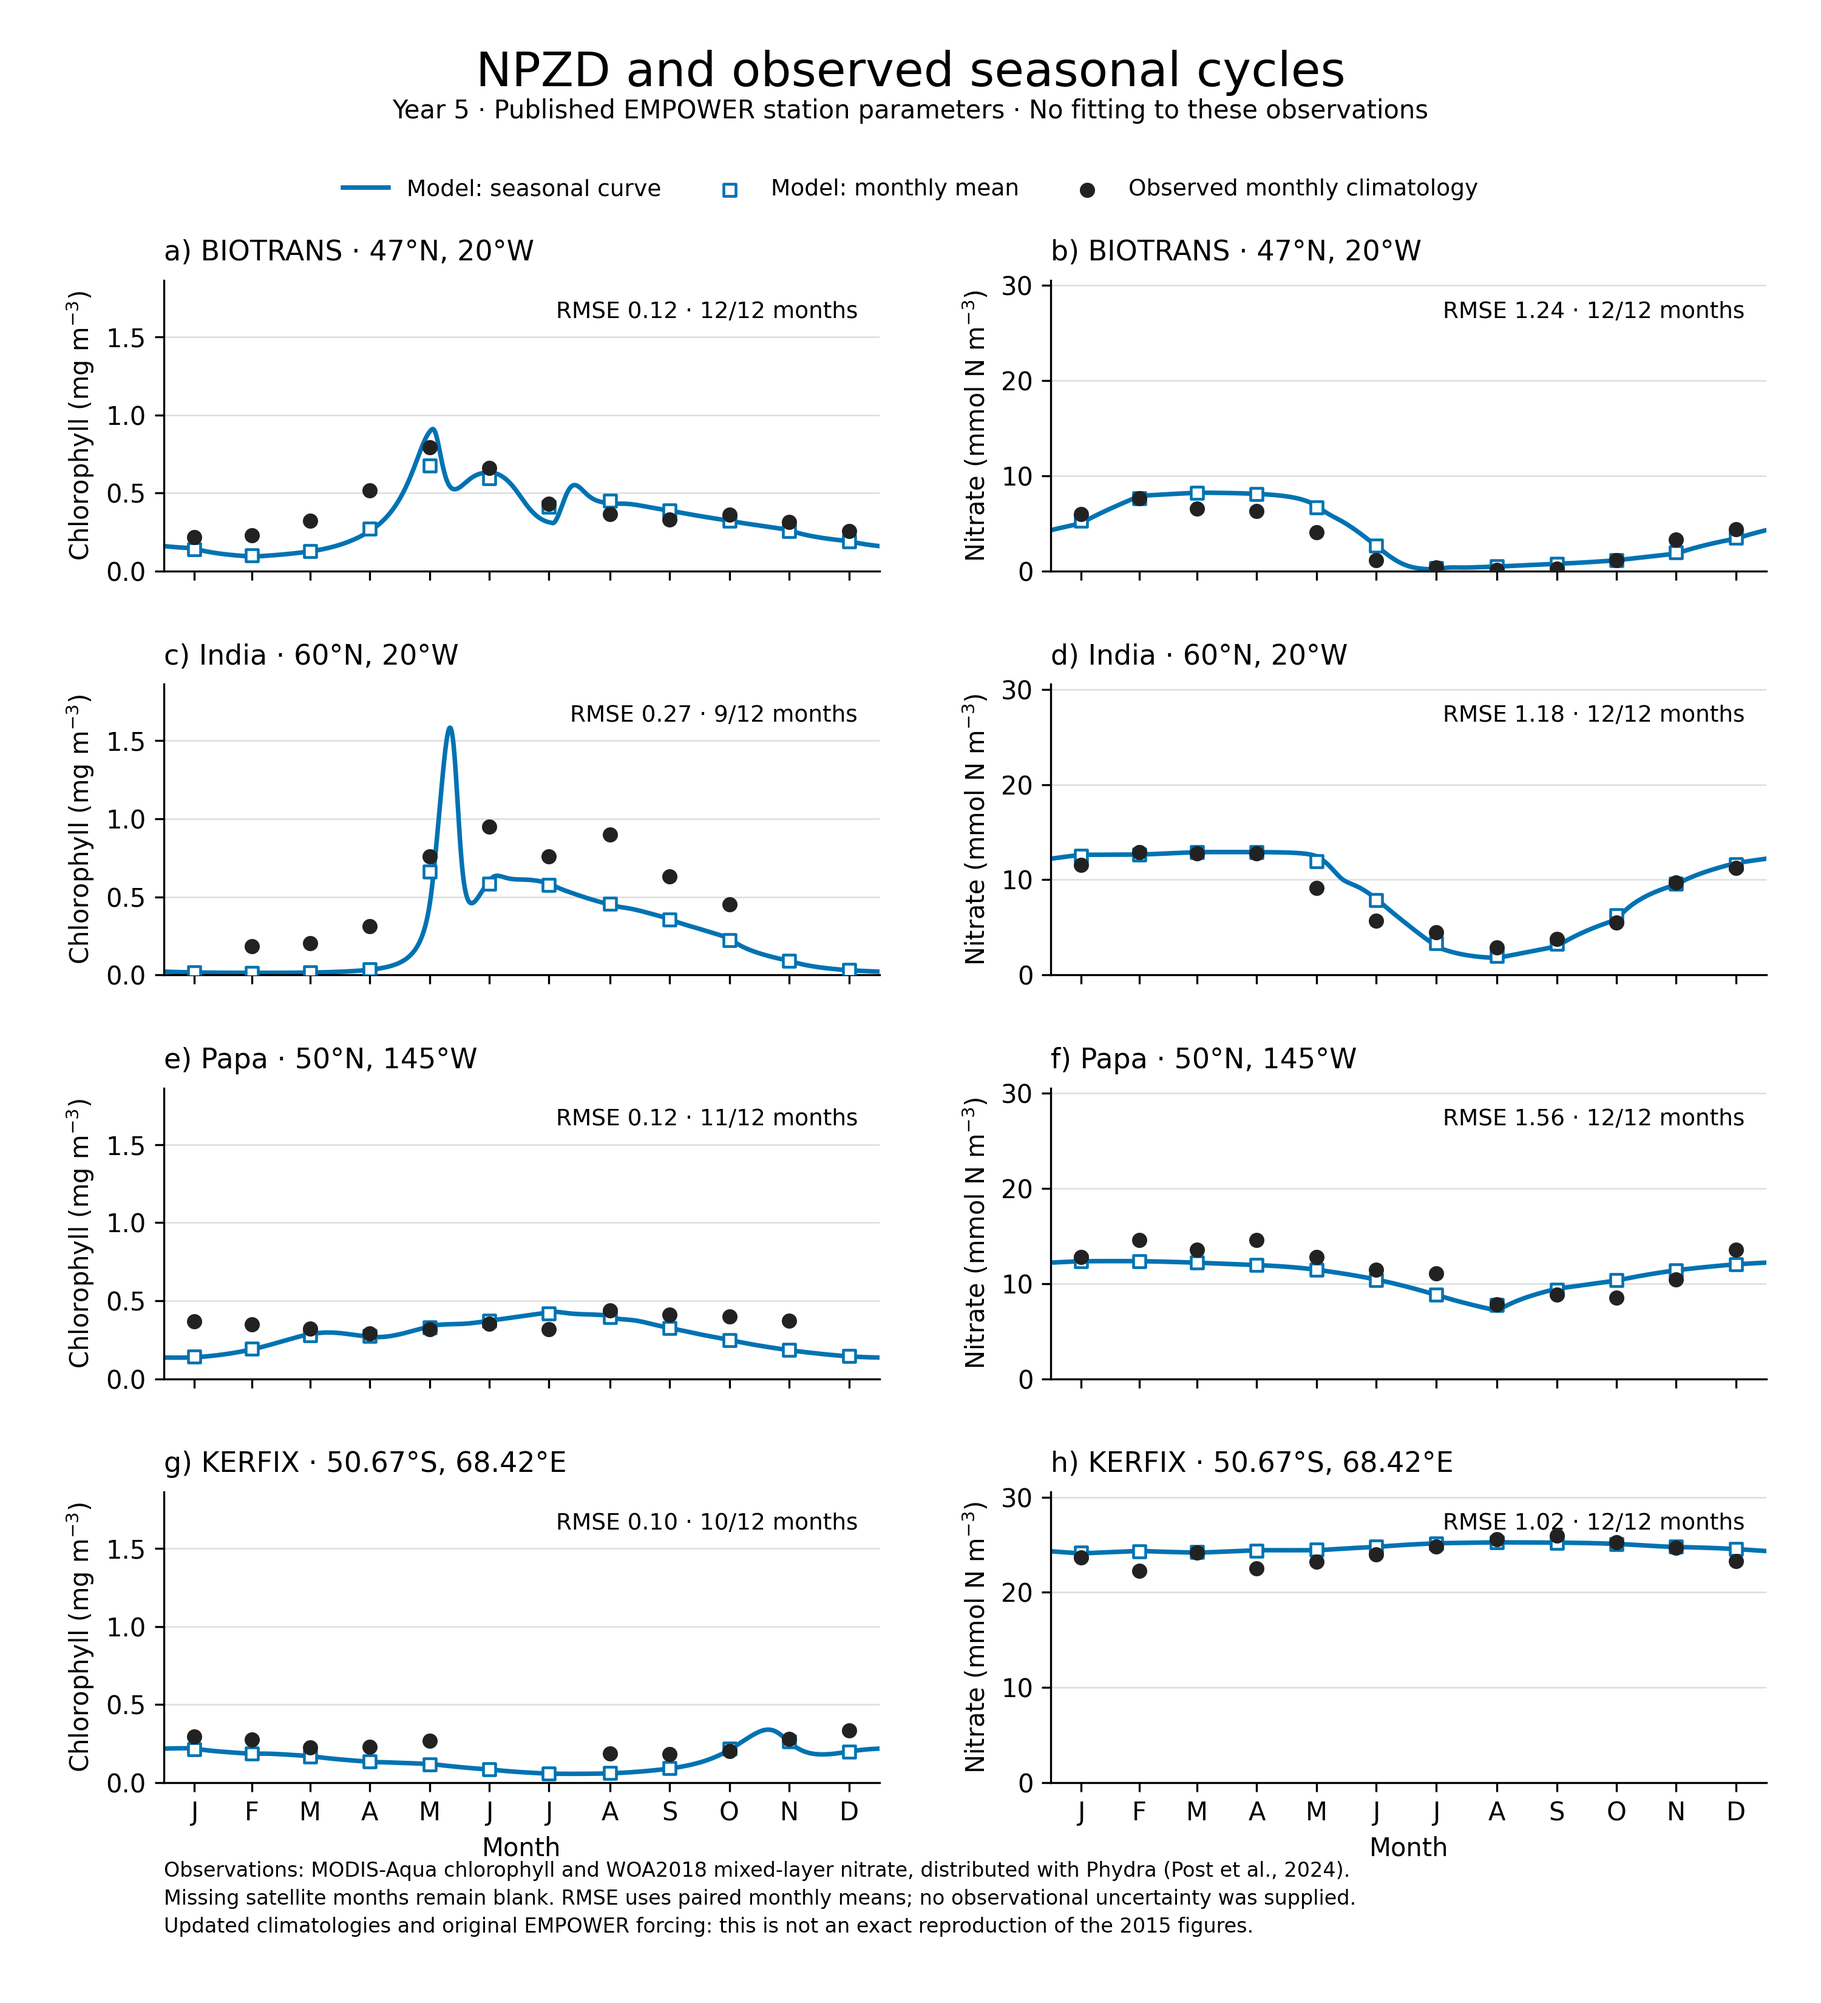
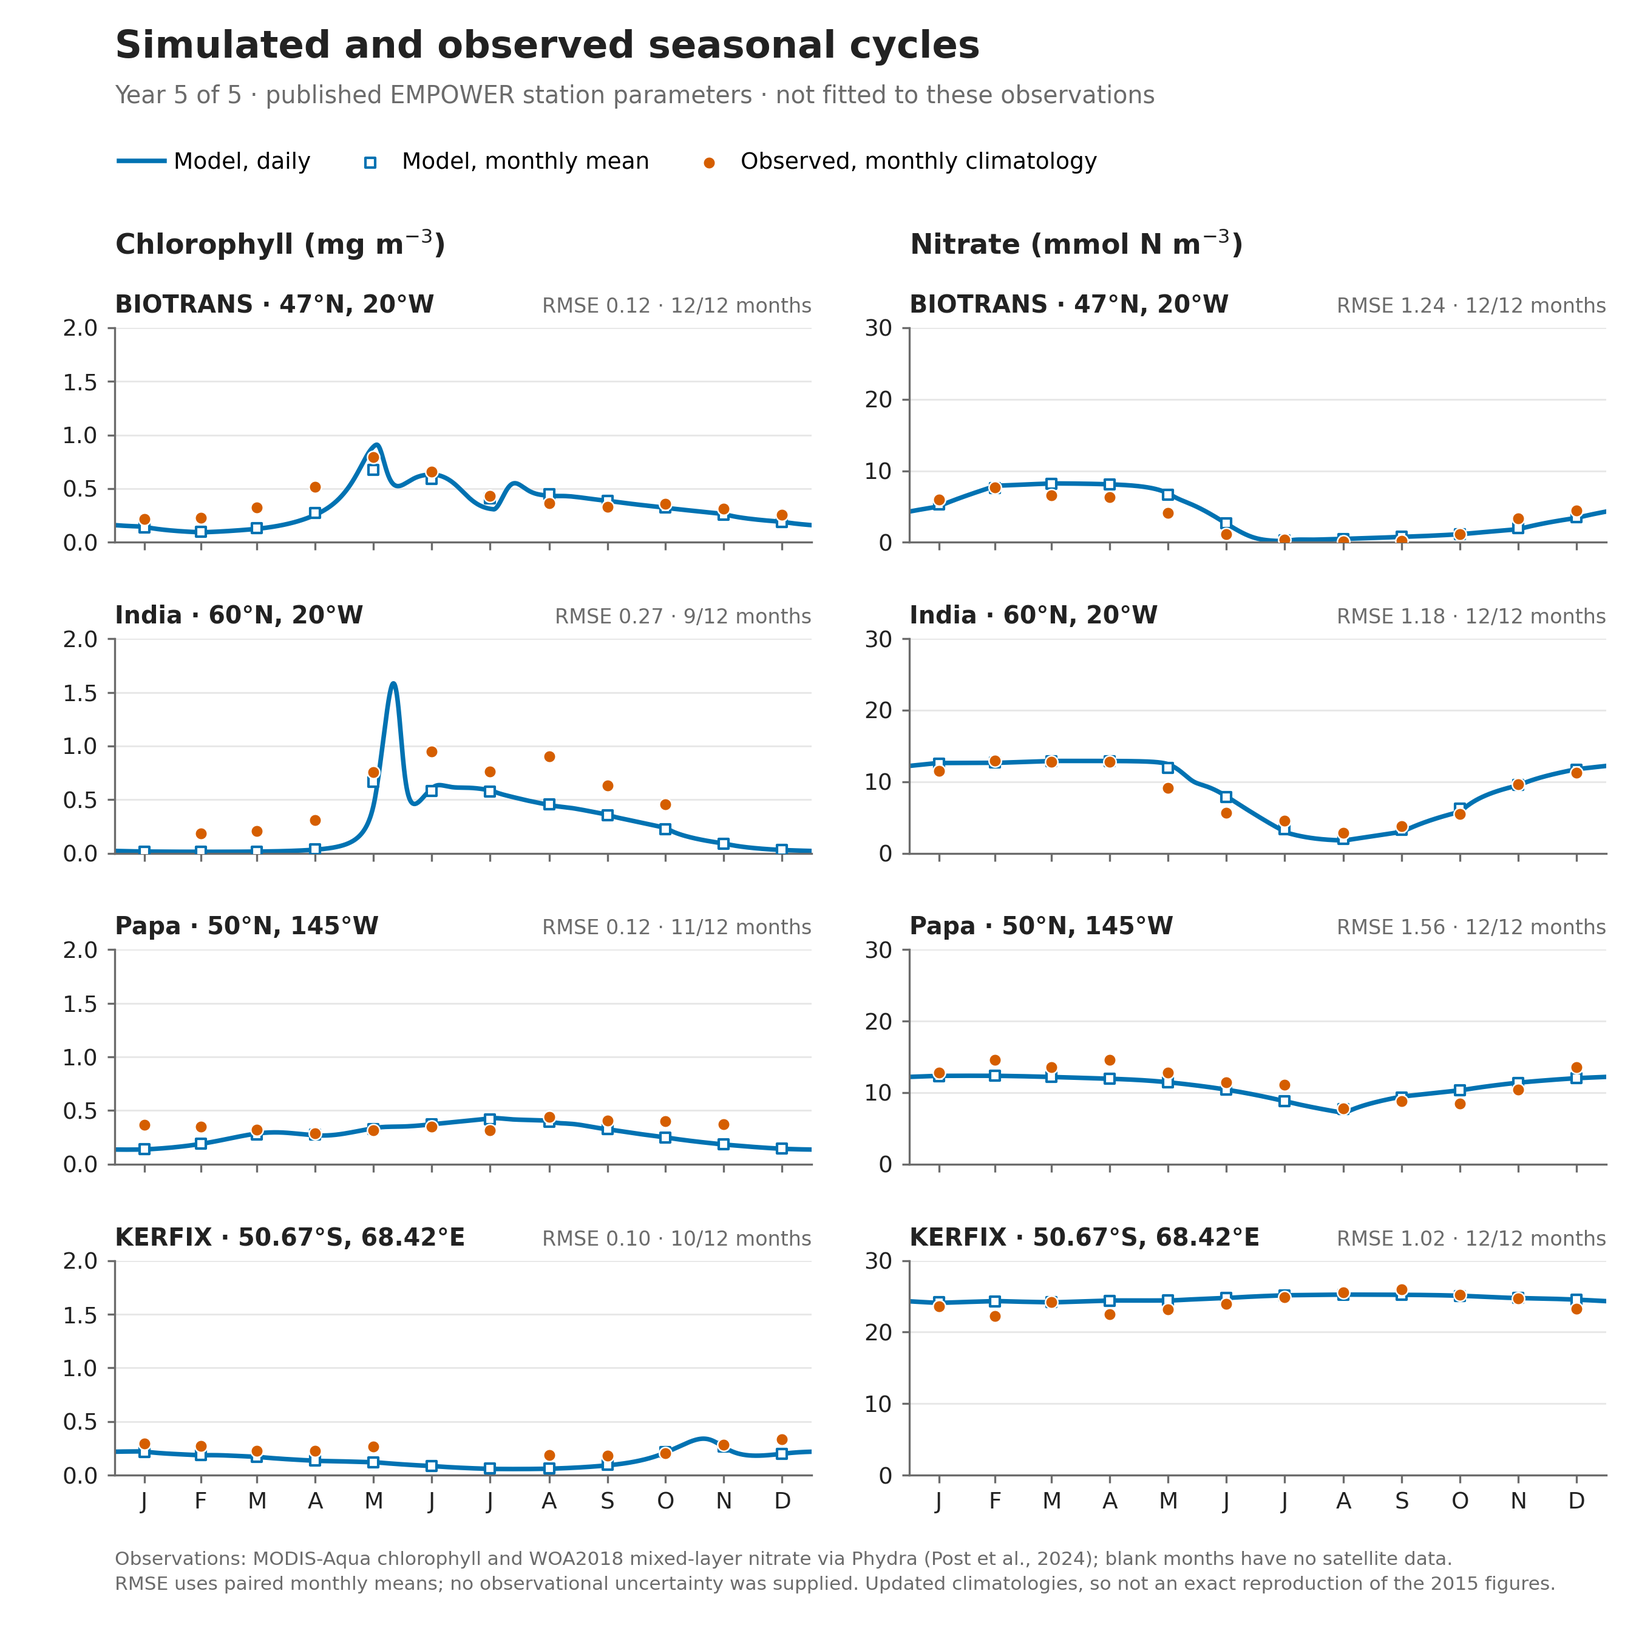
restyle observation comparison figure
Show units once per column, move station names and RMSE into panel
titles so nothing overlaps the data, end shared axes on a labelled tick,
and lighten the title, legend and footnote. Data and metrics unchanged.

diff --git a/examples/compare_observations.py b/examples/compare_observations.py
@@ -114,111 +114,76 @@ def comparison_metrics(monthly: pd.DataFrame) -> pd.DataFrame:
 def plot_comparison(
     model: pd.DataFrame, monthly: pd.DataFrame, metrics: pd.DataFrame, output: Path
 ) -> None:
-    """Save an eight-panel comparison as PNG and vector PDF."""
+    """Save a four-station, two-variable comparison as PNG and vector PDF."""
+    ink, muted, model_colour, observed_colour = "#222222", "#6b6b6b", "#0072B2", "#D55E00"
     style = {
-        "font.size": 10,
-        "axes.titlesize": 11,
-        "axes.labelsize": 10,
+        "font.size": 9,
+        "axes.edgecolor": muted,
         "axes.spines.top": False,
         "axes.spines.right": False,
+        "xtick.color": muted,
+        "ytick.color": muted,
+        "xtick.labelcolor": ink,
+        "ytick.labelcolor": ink,
         "pdf.fonttype": 42,
     }
+    columns = [
+        ("chlorophyll", "chlorophyll", "Chlorophyll (mg m$^{-3}$)"),
+        ("nitrate", "N", "Nitrate (mmol N m$^{-3}$)"),
+    ]
     with plt.rc_context(style):
-        fig, axes = plt.subplots(4, 2, figsize=(10, 11), sharex=True, sharey="col")
+        fig, axes = plt.subplots(4, 2, figsize=(9, 9), sharex=True, sharey="col")
         fig.subplots_adjust(
-            left=0.09, right=0.97, bottom=0.11, top=0.86, hspace=0.39, wspace=0.24
+            left=0.07, right=0.98, top=0.80, bottom=0.10, hspace=0.45, wspace=0.14
         )
-        fig.suptitle("NPZD and observed seasonal cycles", fontsize=19, y=0.975)
-        fig.text(
-            0.5,
-            0.941,
-            "Year 5 · Published EMPOWER station parameters · No fitting to these observations",
-            ha="center",
-            fontsize=10,
-        )
+        fig.text(0.07, 0.965, "Simulated and observed seasonal cycles",
+                 fontsize=15, weight="bold", color=ink)
+        fig.text(0.07, 0.937, "Year 5 of 5 · published EMPOWER station parameters · "
+                 "not fitted to these observations", fontsize=9.5, color=muted)
         for row, (station, (_, label, _)) in enumerate(STATIONS.items()):
             simulated = model[model.station == station]
             paired = monthly[monthly.station == station]
-            for col, (variable, field, ylabel) in enumerate(
-                [
-                    ("chlorophyll", "chlorophyll", "Chlorophyll (mg m$^{-3}$)"),
-                    ("nitrate", "N", "Nitrate (mmol N m$^{-3}$)"),
-                ]
-            ):
+            for col, (variable, field, _) in enumerate(columns):
                 ax = axes[row, col]
-                ax.plot(
-                    simulated.day,
-                    simulated[field],
-                    color="#0072B2",
-                    lw=1.8,
-                    label="Model: seasonal curve",
-                    zorder=2,
-                )
-                ax.scatter(
-                    MONTH_CENTRES,
-                    paired[f"model_{variable}"],
-                    marker="s",
-                    s=24,
-                    facecolors="white",
-                    edgecolors="#0072B2",
-                    linewidths=1.1,
-                    label="Model: monthly mean",
-                    zorder=4,
-                )
-                ax.scatter(
-                    MONTH_CENTRES,
-                    paired[f"observed_{variable}"],
-                    s=25,
-                    color="#222222",
-                    marker="o",
-                    label="Observed monthly climatology",
-                    zorder=5,
-                )
+                ax.plot(simulated.day, simulated[field], color=model_colour, lw=1.8,
+                        label="Model, daily", zorder=2)
+                ax.scatter(MONTH_CENTRES, paired[f"model_{variable}"], marker="s",
+                           s=16, facecolors="white", edgecolors=model_colour,
+                           linewidths=1, label="Model, monthly mean", zorder=3)
+                ax.scatter(MONTH_CENTRES, paired[f"observed_{variable}"], s=24,
+                           color=observed_colour, edgecolors="white", linewidths=0.6,
+                           label="Observed, monthly climatology", zorder=4)
                 metric = metrics[
                     (metrics.station == station) & (metrics.variable == variable)
                 ].iloc[0]
-                ax.text(
-                    0.97,
-                    0.93,
-                    f"RMSE {metric.rmse:.2f} · {metric.months}/12 months",
-                    ha="right",
-                    va="top",
-                    transform=ax.transAxes,
-                    fontsize=9,
-                    bbox={
-                        "facecolor": "white",
-                        "edgecolor": "none",
-                        "alpha": 0.9,
-                        "pad": 2,
-                    },
-                )
-                ax.set_title(f"{chr(97 + 2 * row + col)}) {label}", loc="left", pad=8)
-                ax.set_ylabel(ylabel)
-                ax.set_xlim(0, 365)
-                ax.set_xticks(MONTH_CENTRES, list("JFMAMJJASOND"))
-                ax.grid(axis="y", color="#dddddd", lw=0.6)
+                ax.set_title(label, loc="left", fontsize=9.5, weight="bold", color=ink)
+                ax.set_title(f"RMSE {metric.rmse:.2f} · {metric.months}/12 months",
+                             loc="right", fontsize=8, color=muted)
+                ax.grid(axis="y", color="#e8e8e8", lw=0.7)
                 ax.set_axisbelow(True)
-        for col in range(2):
-            axes[0, col].set_ylim(0, axes[0, col].get_ylim()[1] * 1.12)
-            axes[-1, col].set_xlabel("Month")
+                ax.tick_params(length=3)
+        for col, (_, _, header) in enumerate(columns):
+            ticks = axes[0, col].get_yticks()
+            data_max = max(ax.dataLim.ymax for ax in axes[:, col])
+            # End each shared axis on a labelled tick so no column looks cut off.
+            axes[0, col].set_ylim(0, np.ceil(data_max / (ticks[1] - ticks[0])) * (ticks[1] - ticks[0]))
+            fig.text(axes[0, col].get_position().x0, 0.845, header,
+                     fontsize=11, weight="bold", color=ink)
+        axes[-1, 0].set_xlim(0, 365)
+        axes[-1, 0].set_xticks(MONTH_CENTRES, list("JFMAMJJASOND"))
         handles, labels = axes[0, 0].get_legend_handles_labels()
-        fig.legend(
-            handles,
-            labels,
-            loc="upper center",
-            bbox_to_anchor=(0.5, 0.921),
-            ncol=3,
-            frameon=False,
-            fontsize=9,
-        )
+        fig.legend(handles, labels, loc="upper left", bbox_to_anchor=(0.06, 0.92),
+                   ncol=3, frameon=False, fontsize=9, handletextpad=0.4,
+                   columnspacing=1.6)
         fig.text(
-            0.09,
-            0.052,
-            "Observations: MODIS-Aqua chlorophyll and WOA2018 mixed-layer nitrate, distributed with Phydra (Post et al., 2024).\n"
-            "Missing satellite months remain blank. RMSE uses paired monthly means; no observational uncertainty was supplied.\n"
-            "Updated climatologies and original EMPOWER forcing: this is not an exact reproduction of the 2015 figures.",
-            fontsize=8,
-            va="center",
+            0.07,
+            0.03,
+            "Observations: MODIS-Aqua chlorophyll and WOA2018 mixed-layer nitrate via Phydra "
+            "(Post et al., 2024); blank months have no satellite data.\nRMSE uses paired "
+            "monthly means; no observational uncertainty was supplied. Updated climatologies, "
+            "so not an exact reproduction of the 2015 figures.",
+            fontsize=7.5,
+            color=muted,
             linespacing=1.5,
         )
         for extension in ("png", "pdf"):

diff --git a/examples/README.md b/examples/README.md
@@ -78,7 +78,7 @@ CtoChl = 75 g C / g chlorophyll
 ```
 
 The blue curve shows the simulated final-year cycle. Open blue squares show
-model monthly means, and dark circles show the observational climatology.
+model monthly means, and orange-red circles show the observational climatology.
 Months use a 365-day calendar; model samples are assigned to half-open
 calendar-month intervals and averaged at their uniform 2.4-hour spacing.
 Observed points are positioned at month centres. The underlying values are
